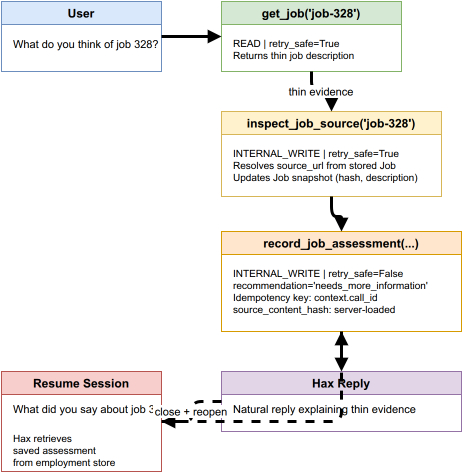
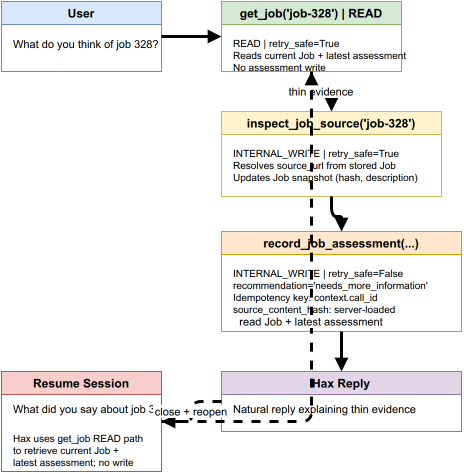
repair: classify provider cancellation and resume reads

diff --git a/src/haxjobs/agent_core/turn.py b/src/haxjobs/agent_core/turn.py
@@ -274,10 +274,52 @@ async def run_turn(
                     break
 
                 elif stream_event.event_type == ModelStreamEventType.RESPONSE_FAILED:
+                    final_text = accumulated_text
+                    if stream_event.category == "cancelled":
+                        # Providers may consume asyncio.CancelledError and
+                        # normalize it to this provider-neutral failure event.
+                        # It is still cancellation, not a model failure.
+                        exit_reason = TurnExitReason.INTERRUPTED
+                        safe_failure = stream_event.error or "interrupted during streaming"
+                        if accumulated_text:
+                            assistant_msg = AssistantMessage(
+                                message_id=_mid(),
+                                turn_id=turn_id,
+                                content=accumulated_text,
+                                status="interrupted",
+                            )
+                            new_messages.append(assistant_msg)
+                            try:
+                                persist_message(assistant_msg)
+                            except Exception as exc:
+                                logger.warning(
+                                    "partial assistant persistence failed: %s", exc
+                                )
+                        emit(
+                            LiveEvent(
+                                session_id=session_id,
+                                turn_id=turn_id,
+                                event_type=LiveEventType.TURN_INTERRUPTED,
+                            )
+                        )
+                        return TurnResult(
+                            turn_id=turn_id,
+                            exit_reason=exit_reason,
+                            final_text=final_text,
+                            model_steps=model_steps,
+                            tool_starts=tool_starts,
+                            new_messages=new_messages,
+                            safe_failure=safe_failure,
+                            user_message_id=user_message_id,
+                            model_name=captured_model_name,
+                            provider_name=captured_provider_name,
+                            usage=captured_usage,
+                            input_characters=input_characters,
+                        )
+
                     model_failed = True
                     safe_failure = stream_event.error or "model stream failed"
                     exit_reason = TurnExitReason.MODEL_FAILED
-                    final_text = accumulated_text
                     # Persist partial assistant text
                     if accumulated_text:
                         assistant_msg = AssistantMessage(

diff --git a/tests/test_turn_runtime.py b/tests/test_turn_runtime.py
@@ -679,6 +679,50 @@ async def test_provider_failure_after_partial_text():
     assert assistant_msgs[-1].status in ("interrupted", "failed")
 
 
+# ── Provider cancellation normalized as a failure event ──
+
[email redacted]
+async def test_cancelled_failure_after_partial_text_is_interrupted():
+    """A provider-neutral cancelled failure preserves partial text as interrupted."""
+    events: list[LiveEvent] = []
+    fake = FakeModelClient(
+        responses=[],
+        stream_events=[[
+            ModelStreamEvent(
+                event_type=ModelStreamEventType.TEXT_DELTA, delta="Partial reply",
+            ),
+            ModelStreamEvent(
+                event_type=ModelStreamEventType.RESPONSE_FAILED,
+                error="cancelled",
+                category="cancelled",
+            ),
+        ]],
+    )
+
+    result = await run_turn(
+        session_id="s-cancelled-failure",
+        turn_id="t-cancelled-failure",
+        model=fake,
+        system_prompt="sys",
+        context_messages=[],
+        history=[],
+        tool_registry=ToolRegistry(),
+        active_tools=(),
+        cancel_event=asyncio.Event(),
+        emit=_fake_emit(events),
+        persist_message=_persist,
+        user_message_id=_uid(),
+    )
+
+    assert result.exit_reason == TurnExitReason.INTERRUPTED
+    assert result.final_text == "Partial reply"
+    assistant_msgs = [m for m in result.new_messages if m.kind == "assistant"]
+    assert len(assistant_msgs) == 1
+    assert assistant_msgs[0].status == "interrupted"
+    assert sum(e.event_type == LiveEventType.TURN_INTERRUPTED for e in events) == 1
+    assert not any(e.event_type == LiveEventType.TURN_FAILED for e in events)
+
+
 # ── History projection includes prior turns ──
 
 @pytest.mark.asyncio

diff --git a/tests/test_session.py b/tests/test_session.py
@@ -919,6 +919,46 @@ async def test_measurement_interrupted_turn(store: SessionStore):
 
 
 @pytest.mark.asyncio
+async def test_provider_cancelled_failure_records_interrupted_measurement(store: SessionStore):
+    """A normalized provider cancellation settles as interrupted, not failed."""
+    store.create_session("s-provider-cancel", configuration_json='{"scope":"test"}')
+    model = FakeModelClient(
+        stream_events=[[
+            ModelStreamEvent(
+                event_type=ModelStreamEventType.TEXT_DELTA, delta="partial",
+            ),
+            ModelStreamEvent(
+                event_type=ModelStreamEventType.RESPONSE_FAILED,
+                error="cancelled",
+                category="cancelled",
+            ),
+        ]],
+    )
+    session = AgentSession(
+        session_id="s-provider-cancel", session_store=store, model=model,
+        system_prompt=lambda: "sys", context_messages=lambda: [],
+        tool_registry_fn=lambda: ToolRegistry(), active_tool_names_fn=lambda: (),
+    )
+    events: list[LiveEvent] = []
+    session.subscribe(events.append)
+
+    result = await session.prompt("stop after partial")
+
+    assert result.exit_reason == TurnExitReason.INTERRUPTED
+    stored = [row["payload_json"] for row in store.load_messages("s-provider-cancel")]
+    assert stored[-1]["kind"] == "assistant"
+    assert stored[-1]["status"] == "interrupted"
+    assert stored[-1]["content"] == "partial"
+    assert sum(e.event_type == LiveEventType.TURN_INTERRUPTED for e in events) == 1
+    assert not any(e.event_type == LiveEventType.TURN_FAILED for e in events)
+    measurement = store._conn.execute(
+        "SELECT exit_reason FROM turn_measurements WHERE session_id = ?",
+        ("s-provider-cancel",),
+    ).fetchone()
+    assert measurement["exit_reason"] == "interrupted"
+
+
[email redacted]
 async def test_measurement_null_usage_when_provider_omits(store: SessionStore):
     """When provider returns no usage, measurement stores NULL tokens."""
     session = _make_session(store, model_count=1)

diff --git a/deliverables/004-saved-job-assessment/review-ledger.md b/deliverables/004-saved-job-assessment/review-ledger.md
@@ -2,42 +2,36 @@
 
 ## Status
 
-Final review is pending and not approved. This focused writer pass starts at exact `0a29152` and makes one correctness/truthfulness repair commit. No live model, public network, private fixture, provider configuration, credential, plan, or state path was used.
+Final review is pending and not approved. This focused writer pass starts at exact `58f0807` and makes one final correctness/truthfulness repair commit. No live model, public network, private fixture, provider configuration, credential, plan, or state path was used.
 
 ## Prior review history
 
 | Candidate | Outcome | Scope |
 |---|---|---|
 | `0cbff2b` | rejected | Initial Plan 004 implementation; PTY isolation, PNG exports, and report metadata blockers |
-| `0766d56` | accepted with blockers | Isolated PTY tests, exported diagrams, corrected deliverable metadata |
-| `65dd9d6` | blocked by three fresh Luna reviews | Mandatory session configuration, tool-event ordering, and assessment/source/cancellation truthfulness defects |
+| `0766d56` | accepted with blockers | Isolated PTY tests, exported diagrams, and corrected deliverable metadata |
+| `626890c` | blocked | Review ledger/manual proof, diagram cell count, and stale documentation blockers identified |
+| `65dd9d6` | blocked | Session configuration, tool-event ordering, and assessment/source/cancellation truthfulness defects |
+| `0a29152` | accepted with blockers | Lifecycle, scope, cancellation, and diagram edge/cell repairs |
+| `58f0807` | accepted with blockers | Partial stream preservation and other correctness repairs; provider-neutral cancelled failure classification remained |
 
-## Repairs in this commit
+## Final-pass repairs
 
-1. SessionStore creation now requires a nonblank valid JSON object and validates before inserting the session. Historic unconfigured rows are still rejected clearly on resume; they are not repaired.
-2. Tool results are persisted before `TOOL_COMPLETED`/`TOOL_FAILED`. Result persistence failure emits persistence failure/terminal events, stops before another model call, and leaves the call eligible for dangling-call reconciliation.
-3. `JobSourceFetcher.fetch(JobFixture, ...)` and fixture-era Stage 1 wording were removed. Runtime inspection uses the saved Job's trusted URL and host allowlist.
-4. Assessment input no longer contains `track_id`; the registry's active track is the only stored scope. A two-track direct-dispatch regression proves no cross-track write.
-5. External cancellation during a slow tool explicitly cancels and joins child tasks, persists only a truthful cancellation failure when possible, emits one interruption, and records session measurement/settlement.
-6. Manual proof now distinguishes text-only CLI `--fake` from the deterministic automated tool trajectory.
-7. All three Plan 004 drawio edge styles are orthogonal and PNGs were re-exported from the final XML.
-8. Current docs and deliverables report 229 tests, with exact per-file collection recorded in the report below.
+1. `run_turn()` now treats the provider-neutral `RESPONSE_FAILED` category `cancelled` exactly like cancellation: one `TURN_INTERRUPTED`, an interrupted partial assistant message when text exists, an interrupted `TurnResult`, and no `TURN_FAILED`.
+2. Deterministic regressions cover a partial-text cancelled failure directly and through `AgentSession`, including the interrupted measurement and durable partial status.
+3. `conversation-trajectory.drawio` now routes resume through the actual `get_job` read path, which reads the current Job and latest assessment for the active track. Resume never routes to or writes `record_job_assessment`.
+4. The ledger's SessionStore wording now states that opaque valid JSON values, including strings and lists, are accepted; employment scope validation remains in composition.
 
-## Repairs in this focused pass
+## Diagram attribution
 
-1. Stream cancellation preserves already-received assistant text as a durable interrupted partial; external task cancellation follows the same truthful boundary.
-2. Tool-call and both assistant persistence failure branches emit one `TURN_FAILED`; no completion is claimed.
-3. DNS resolution is awaited with a bounded timeout while retaining the `to_thread` cancellation limitation.
-4. Source observations preserve string `Job.external_ref` values without integer conversion.
-5. Session storage validates only nonblank valid JSON and preserves opaque string/list values; employment scope validation remains in composition.
-6. Manual proof now migrates the tracked synthetic fixture into a safe temporary career DB before fake chat, with the fake model's text-only limitation explicit.
+The original PNG exports occurred in earlier repair commit `0766d56`. Diagram cell reductions, orthogonal-edge repairs, and their re-exports occurred in earlier repair commit `0a29152`. `58f0807` did not contain diagram export or cell repairs. This final pass changes only the trajectory semantics and re-exports its corrected PNG; all diagrams remain below 35 cells.
 
 ## Writer verification
 
 | Check | Result |
 |---|---|
-| Full pytest suite | 229 passed |
-| Focused regression tests | passed |
+| Full pytest suite | 231 passed in 45.83s |
+| Focused regression tests | 2 passed |
 | `py_compile` | passed |
 | `uv lock --check` | passed |
 | `git diff --check` | passed |

diff --git a/deliverables/004-saved-job-assessment/report.md b/deliverables/004-saved-job-assessment/report.md
@@ -2,7 +2,7 @@
 
 ## Status
 
-**IMPLEMENTED — FINAL REVIEW PENDING** — All 229 automated tests pass in this worktree with no private fixture. Fresh Luna reviews blocked the candidate at `65dd9d6`; this focused repair addresses the accepted findings. Final review remains pending and is not approved. Live provider verification is deferred (controller-owned).
+**IMPLEMENTED — FINAL REVIEW PENDING** — All 231 automated tests pass in this worktree with no private fixture. Fresh Luna reviews blocked the candidate at `65dd9d6`; this focused repair addresses the accepted findings. Final review remains pending and is not approved. Live provider verification is deferred (controller-owned).
 
 ## Files created
 
@@ -38,8 +38,8 @@
 | `src/haxjobs/employment/__init__.py` | Removed `review_job` exports |
 | `src/haxjobs/interfaces/__init__.py` | Removed `experiment_cli` export |
 | `tests/test_career_graph.py` | Uses synthetic fixture; added migration integrity tests (deterministic IDs, person name, contradictory gaps, idempotent links, required fields) |
-| `tests/test_turn_runtime.py` | Removed duplicate `_TestOutput`; added ToolExecutionContext, persistence failure event, and cancel event tests; updated all handler signatures to `(input, ctx)` |
-| `tests/test_session.py` | Added unconfigured session, interrupted partial-history, dangling call, no duplicate, no auto-retry, idempotent resume, measurement tests |
+| `tests/test_turn_runtime.py` | Removed duplicate `_TestOutput`; added ToolExecutionContext, persistence failure event, cancel event, and provider-cancelled failure tests; updated all handler signatures to `(input, ctx)` |
+| `tests/test_session.py` | Added unconfigured session, interrupted partial-history, dangling call, no duplicate, no auto-retry, idempotent resume, measurement, and provider-cancelled settlement tests |
 | `tests/test_employment_host.py` | Added scope selection tests (single/multi/zero person/track), evidence content tests |
 | `tests/test_session_store.py` | Added opaque string/list configuration, blank/invalid validation, round-trip, transaction, duplicate tests |
 | `tests/test_live_events.py` | Updated test that referenced deleted events module |
@@ -66,12 +66,12 @@
 ## Test results
 
 ```
-229 passed in 45.16s
+231 passed (full suite; runtime varies by environment)
 ```
 
 Verified: `uv lock --check` ok, `py_compile` all src/ and tests/ ok, `git diff --check` ok.
 
-Exact collected/tested per-file count (from `pytest --collect-only -q tests/`, 229 collected and 229 passed):
+Exact collected/tested per-file count (from `pytest --collect-only -q tests/`, 231 collected and 231 passed):
 - `tests/test_career_graph.py`: 28
 - `tests/test_conversation_messages.py`: 20
 - `tests/test_durable_tool_effects.py`: 9
@@ -81,12 +81,12 @@ Exact collected/tested per-file count (from `pytest --collect-only -q tests/`, 2
 - `tests/test_job_source.py`: 3
 - `tests/test_live_events.py`: 19
 - `tests/test_model_streaming.py`: 11
-- `tests/test_session.py`: 32
+- `tests/test_session.py`: 33
 - `tests/test_session_store.py`: 22
 - `tests/test_terminal.py`: 14
 - `tests/test_terminal_pty.py`: 2
 - `tests/test_trajectory_job_328.py`: 2
-- `tests/test_turn_runtime.py`: 27
+- `tests/test_turn_runtime.py`: 28
 
 ## Architecture invariants confirmed
 
@@ -111,7 +111,7 @@ The `_fake_registry()` helper in `tests/test_turn_runtime.py` had two identical 
 Three draw.io source files and three exported PNGs, all under 35 cells:
 - `employment-models.drawio` (34 cells, 32 non-root) / `.png` (640×524) — Person, CareerTrack, Skill, Evidence, Job, JobAssessment relationships; ConstraintCheck noted as embedded field
 - `tool-effects.drawio` (22 cells) / `.png` (744×404) — Durable tool execution boundary, persist failures, dangling call detection
-- `conversation-trajectory.drawio` (21 cells) / `.png` (464×474) — Full job review trajectory: user → get_job → inspect → assess → resume
+- `conversation-trajectory.drawio` (21 cells) / `.png` (464×474) — Full job review trajectory: user → get_job → inspect → assess → resume; resume reads current Job + latest assessment through get_job and never records a new assessment
 
 All PNGs exported via `/opt/drawio/drawio -x -f png`. Each has a valid PNG signature and nonzero IHDR dimensions.
 
@@ -140,7 +140,7 @@ Three independent Flash reviews identified three deliverable blockers against ca
 
 1. **Missing review-ledger.md and manual-proof.md.** Created with factual review record and controller-owned proof procedure + verified `--help` output.
 2. **Oversized employment-models.drawio (36 non-root cells).** Simplified to 32 non-root cells. PNG re-exported at 640×524.
-3. **Stale doc references.** Test counts updated to 229; `--ignore=tests/test_terminal_pty.py` removed; deleted module/CLI descriptions corrected; `state/experiments/` path removed from user-facing docs.
+3. **Stale doc references.** Test counts were updated to 229 in the earlier repair commit; `--ignore=tests/test_terminal_pty.py` removed; deleted module/CLI descriptions corrected; `state/experiments/` path removed from user-facing docs.
 
 Architecture and correctness reviews were approved on the initial repair candidate with one nonblocking close observation (test-career-store exercises synthetic fixture only; real private DB migration is controller-owned).
 
@@ -150,7 +150,7 @@ Initial controller verification round identified three blocking findings against
 
 1. **PTY test isolation (tests/test_terminal_pty.py):** Both `test_terminal_pty_enter_submits_and_escape_interrupts` and `test_terminal_pty_escape_during_streaming_interrupts` defaulted `HAXJOBS_CAREER_DB` to `state/career_graph.db`, violating Plan 004 Phase A's isolated synthetic-test rule. Fixed by adding `_isolated_career_db()` helper that creates a temp career DB migrated from `tests/fixtures/job_review/career.json` and cleaning up after each test.
 2. **Missing PNG exports:** Three `.drawio` files had no PNG exports. All three exported via local `/opt/drawio/drawio -x -f png`. Each PNG verified with valid signature and nonzero IHDR dimensions.
-3. **Report metadata:** Report claimed COMPLETE but listed PTY tests as "fail due to environment" and PNGs as deferred. Corrected to report exact 229 passes and present PNGs.
+3. **Report metadata:** Report claimed COMPLETE but listed PTY tests as "fail due to environment" and PNGs as deferred. Corrected in the earlier repair commit to report exact 229 passes and present PNGs.
 
 ## Current correctness repairs addressed
 
@@ -158,9 +158,9 @@ Initial controller verification round identified three blocking findings against
 - Tool results are persisted before lifecycle completion/failure events. Failed result persistence stops model progression, emits persistence failure/terminal events, and leaves dangling-call reconciliation intact.
 - Runtime source inspection accepts only saved Job data; the fixture-era `fetch(JobFixture, ...)` entry point and Stage 1 experiment wording are gone.
 - Assessment input no longer accepts a model track scope. Registry dispatch binds the active track and a two-track regression proves no cross-track/person write.
-- Stream cancellation preserves a truthful interrupted partial assistant message; external tool cancellation cancels and joins active tool work, persists only a truthful cancellation failure when possible, emits one interruption, and records measurement/settlement.
+- Stream cancellation preserves a truthful interrupted partial assistant message, including provider-neutral `RESPONSE_FAILED` events with category `cancelled`; external tool cancellation cancels and joins active tool work, persists only a truthful cancellation failure when possible, emits one interruption, and records measurement/settlement.
 - Manual proof states that CLI `--fake` is text-only; saved-job tool trajectory proof is automated and deterministic.
-- All three final diagram XML files use orthogonal connectors; PNGs were re-exported and checked for valid dimensions.
+- All three final diagram XML files use orthogonal connectors; the trajectory now routes resume through the `get_job` read path for the current Job and latest assessment, with no assessment write. PNGs were re-exported and checked for valid dimensions.
 - Source inspection, bounded DNS offloading, string external references, deterministic trajectory, job-column migrations, idempotency, scope ownership, and initial-message persistence remain covered by deterministic focused tests.
 
 ## Commit

diff --git a/deliverables/004-saved-job-assessment/README.md b/deliverables/004-saved-job-assessment/README.md
@@ -19,7 +19,7 @@ All PNGs exported via `/opt/drawio/drawio -x -f png`. Each has a valid PNG signa
 
 ## Key achievements
 
-- 229 automated tests pass (full suite, including PTY terminal tests with isolated temp career DB)
+- 231 automated tests pass (full suite, including PTY terminal tests with isolated temp career DB)
 - First state-changing employment workflow: user asks → get_job → inspect → assess
 - Durable tool execution boundaries: persist before handler, persist after handler
 - Immutable session configuration: person/track scope pinned at creation
@@ -31,7 +31,7 @@ All PNGs exported via `/opt/drawio/drawio -x -f png`. Each has a valid PNG signa
 ## Verification
 
 ```bash
-PYTHONPATH=src:. uv run python3 -m pytest -q tests/            # 229 passed
+PYTHONPATH=src:. uv run python3 -m pytest -q tests/            # 231 passed
 PYTHONPATH=src:. uv run python3 -m py_compile $(find src tests -name '*.py')  # ok
 uv lock --check                                                # ok
 git diff --check                                               # ok

diff --git a/README.md b/README.md
@@ -2,7 +2,7 @@
 
 A career agent platform. One job: get the user interviews and make them more employable.
 
-Plan 004 is built. The greenfield runtime has four layers (model → agent_core → employment → interfaces), conversational chat with durable tool effects, typed job assessments, and 229 tests.
+Plan 004 is built. The greenfield runtime has four layers (model → agent_core → employment → interfaces), conversational chat with durable tool effects, typed job assessments, and 231 tests.
 
 ## Current state
 

diff --git a/docs/HAXJOBS.md b/docs/HAXJOBS.md
@@ -24,7 +24,7 @@ The model boundary knows nothing about careers. The agent core knows nothing abo
 - `src/haxjobs/config.py` — paths from `haxjobs.toml`
 - `src/haxjobs/cv_variants/` — user CV variant templates, registry, renderer (data, not code to rebuild)
 
-229 tests pass (all tests, including PTY terminal tests with isolated temp career DB). Stage 0/1 experiment runtime deleted after conversational runtime trajectories passed.
+231 tests pass (all tests, including PTY terminal tests with isolated temp career DB). Stage 0/1 experiment runtime deleted after conversational runtime trajectories passed.
 
 ### What was deleted
 

diff --git a/docs/PRODUCT.md b/docs/PRODUCT.md
@@ -155,7 +155,7 @@ Plan 004 conversational runtime with durable tool effects:
 - Stable deterministic IDs for career graph migration (idempotent, repeatable)
 - `haxjobs chat` CLI with `--new`/`--resume`/`--fake`/`--person-id`/`--track-id` modes
 - Career profile management CLI: `haxjobs profile migrate/show/track/skill/evidence/gap/constraint`
-- 229 tests, zero network in pytest
+- 231 tests, zero network in pytest
 
 Everything from the legacy product (web app, discovery scrapers, evaluation pipeline, pack builder, decisions engine, cron scripts, FastAPI routes, React frontend) was deleted at the greenfield wipe. These rebuild from scratch on the new runtime.
 